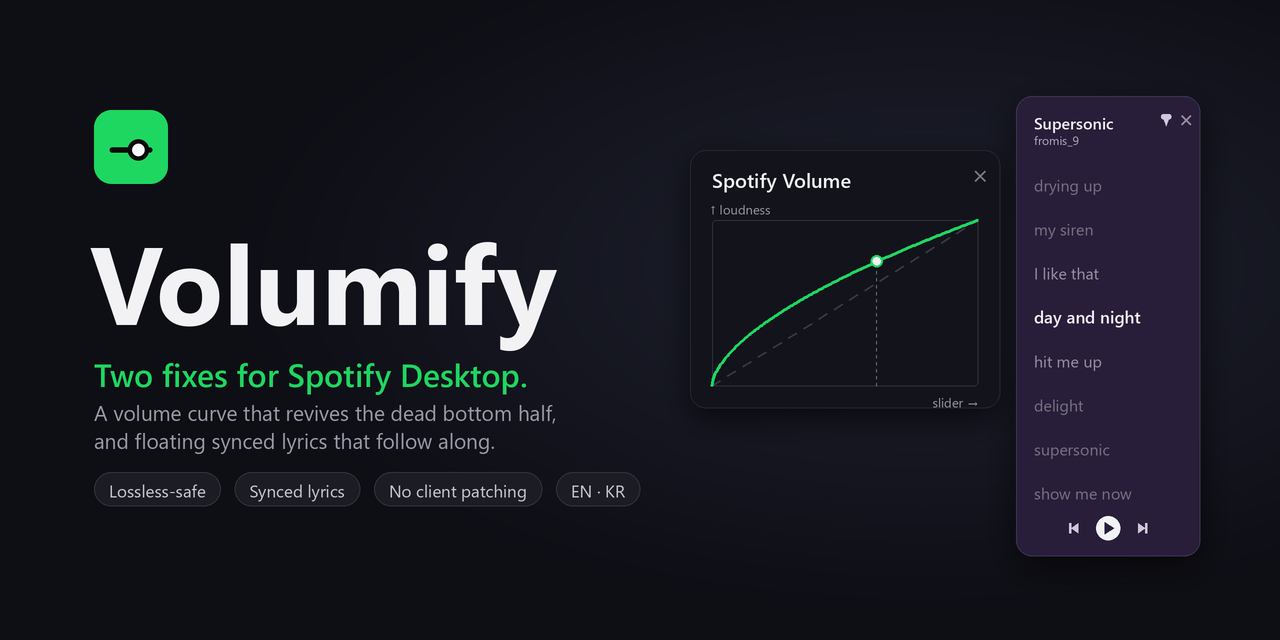
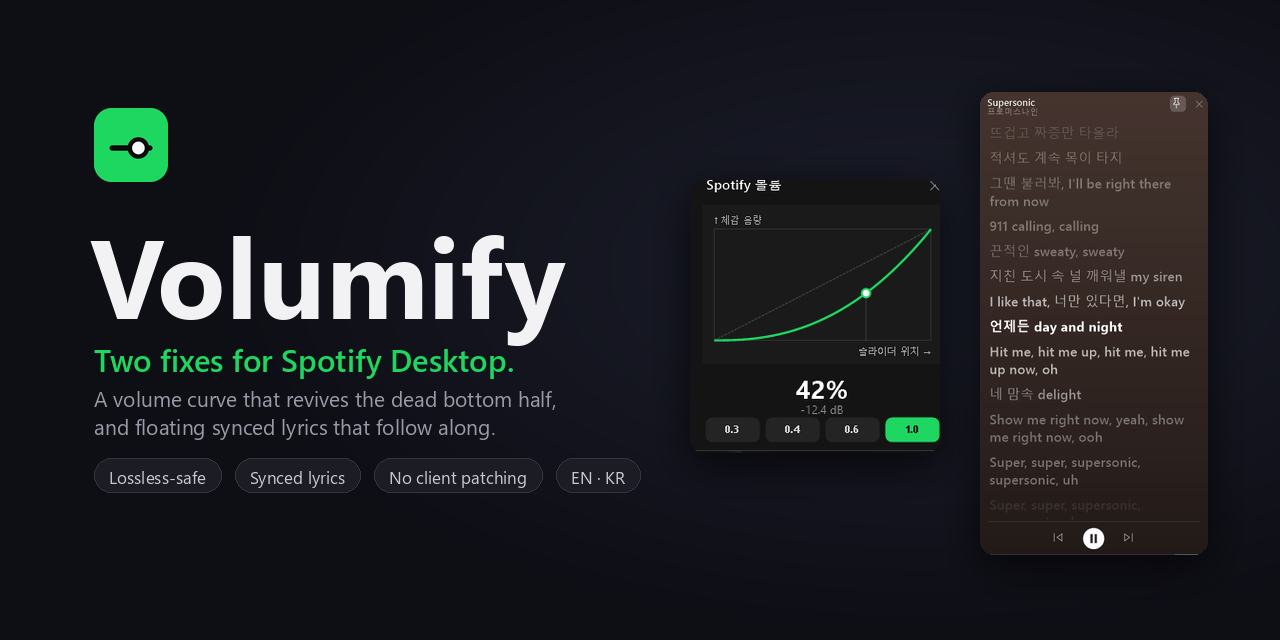
docs: real-screenshot hero + versioned download button
Rebuild the banner by compositing actual app screenshots (the volume panel and
the Supersonic lyrics window, cropped from one capture) with rounded corners and
soft shadows, instead of hand-drawn mockups. Replace the plain download link
with a prominent for-the-badge button that auto-shows the latest release version
(via github/v/release).

diff --git a/assets/thumbnail.py b/assets/thumbnail.py
@@ -1,140 +1,64 @@
-# Regenerates assets/thumbnail.png — the README banner. Two mock cards mirror the app's
-# two pillars: the loudness-curve volume panel, and the floating synced-lyrics window
-# (album-tinted, one line highlighted). Run from the repo root:
+# Regenerates assets/thumbnail.png — the README banner. Composites REAL app screenshots
+# (the volume panel + the floating lyrics window, both cropped from one capture) onto a
+# dark glow background with the headline copy. Run from the repo root:
 #   python3 assets/thumbnail.py   (needs Pillow + numpy + Segoe UI fonts)
+# Rendered at 1x so the screenshots stay crisp (they're already low-res; upscaling blurs).
 import numpy as np
 from PIL import Image, ImageDraw, ImageFont, ImageFilter
 
-S = 2                      # supersample factor
-W, H = 1280 * S, 640 * S
+W, H = 1280, 640
 FZ = "/mnt/c/Windows/Fonts/"
+def font(name, px): return ImageFont.truetype(FZ + name, px)
+f_title = font("segoeuib.ttf", 112)
+f_sub   = font("seguisb.ttf", 31)
+f_desc  = font("segoeui.ttf", 21)
+f_badge = font("segoeui.ttf", 17)
 
-def font(name, px):
-    return ImageFont.truetype(FZ + name, int(px * S))
-
-f_title  = font("segoeuib.ttf", 110)
-f_sub    = font("seguisb.ttf", 32)
-f_desc   = font("segoeui.ttf", 21)
-f_badge  = font("segoeui.ttf", 17)
-f_ptitle = font("seguisb.ttf", 20)
-f_axis   = font("segoeui.ttf", 13)
-f_lyr    = font("segoeui.ttf", 16)
-f_lyra   = font("seguisb.ttf", 17)
-f_lhead  = font("seguisb.ttf", 16)
-f_lsub   = font("segoeui.ttf", 12)
-
-GREEN = (30, 215, 96)
-WHITE = (242, 242, 245)
-SUB   = (154, 154, 168)
-DIM   = (150, 146, 158)
+GREEN = (30, 215, 96); WHITE = (242, 242, 245); SUB = (154, 154, 168)
 
 # ---- background: near-black with a soft glow behind the cards ----
 yy, xx = np.mgrid[0:H, 0:W]
 cx, cy = int(0.72 * W), int(0.42 * H)
-d2 = ((xx - cx) / (0.58 * W)) ** 2 + ((yy - cy) / (0.58 * H)) ** 2
+d2 = ((xx - cx) / (0.60 * W)) ** 2 + ((yy - cy) / (0.62 * H)) ** 2
 glow = np.clip(1 - d2, 0, 1) ** 1.6
-base = np.array([14, 14, 21], dtype=float)
-tint = np.array([26, 28, 40], dtype=float)
-bg = base[None, None, :] + (tint - base)[None, None, :] * glow[:, :, None]
+base = np.array([14, 14, 21.0]); tint = np.array([24, 26, 38.0])
+bg = base + (tint - base) * glow[:, :, None]
 img = Image.fromarray(np.clip(bg, 0, 255).astype("uint8"), "RGB").convert("RGBA")
 
-def shadow_for(box, blur, alpha, dy):
+def card(path, x, y, w, radius=13, blur=20, salpha=165, sdy=12):
+    """Paste a screenshot with rounded corners + a soft drop shadow; return its height."""
+    s = Image.open(path).convert("RGBA")
+    h = round(s.height * w / s.width)
+    s = s.resize((w, h), Image.LANCZOS)
+    m = Image.new("L", (w, h), 0)
+    ImageDraw.Draw(m).rounded_rectangle([0, 0, w - 1, h - 1], radius=radius, fill=255)
+    s.putalpha(m)
     sh = Image.new("RGBA", img.size, (0, 0, 0, 0))
-    ImageDraw.Draw(sh).rounded_rectangle(
-        [box[0], box[1] + dy, box[2], box[3] + dy], radius=18 * S, fill=(0, 0, 0, alpha))
-    return sh.filter(ImageFilter.GaussianBlur(blur * S))
+    ImageDraw.Draw(sh).rounded_rectangle([x, y + sdy, x + w, y + h + sdy], radius=radius, fill=(0, 0, 0, salpha))
+    img.alpha_composite(sh.filter(ImageFilter.GaussianBlur(blur)))
+    img.alpha_composite(s, (x, y))
+    return h
 
-# ---------- right side: two floating cards ----------
-VOL = [690 * S, 150 * S, 1000 * S, 408 * S]   # volume panel (landscape)
-LYR = [1016 * S, 96 * S, 1200 * S, 556 * S]   # lyrics window (portrait)
+# ---- right side: the two real windows, floating ----
+card("assets/vol_panel.png", 690, 180, 250)   # volume panel (real screenshot)
+card("assets/lyrics.png",    980, 92, 228)     # lyrics window (real screenshot)
 
-img = Image.alpha_composite(img, shadow_for(LYR, 16, 150, 12 * S))
-img = Image.alpha_composite(img, shadow_for(VOL, 14, 150, 10 * S))
+# ---- left content ----
 d = ImageDraw.Draw(img)
-def rr(box, r, **kw): d.rounded_rectangle(box, radius=int(r * S), **kw)
+icon = Image.open("assets/icon.png").convert("RGBA").resize((74, 74), Image.LANCZOS)
+img.alpha_composite(icon, (94, 108))
+d.text((90, 198), "Volumify", font=f_title, fill=WHITE)
+d.text((94, 338), "Two fixes for Spotify Desktop.", font=f_sub, fill=GREEN)
+d.text((94, 384), "A volume curve that revives the dead bottom half,", font=f_desc, fill=SUB)
+d.text((94, 412), "and floating synced lyrics that follow along.", font=f_desc, fill=SUB)
 
-# ===== volume card =====
-rr(VOL, 16, fill=(19, 19, 28, 255), outline=(38, 38, 48, 255), width=int(1.4 * S))
-d.text((712 * S, 166 * S), "Spotify Volume", font=f_ptitle, fill=WHITE)
-ccx, ccy, ca = 980 * S, 176 * S, 5 * S
-d.line([(ccx - ca, ccy - ca), (ccx + ca, ccy + ca)], fill=(120, 120, 130), width=int(1.8 * S))
-d.line([(ccx - ca, ccy + ca), (ccx + ca, ccy - ca)], fill=(120, 120, 130), width=int(1.8 * S))
-
-GX0, GY0, GX1, GY1 = 712 * S, 220 * S, 978 * S, 386 * S
-gw, gh = GX1 - GX0, GY1 - GY0
-rr([GX0, GY0, GX1, GY1], 4, outline=(48, 48, 58, 255), width=int(1.2 * S))
-def gx(t): return GX0 + t * gw
-def gy(v): return GY1 - v * gh
-def dashed(p0, p1, color, width, dash=10, gap=8):
-    p0, p1 = np.array(p0, float), np.array(p1, float)
-    L = np.hypot(*(p1 - p0)); u = (p1 - p0) / L; t = 0
-    while t < L:
-        a = p0 + u * t; b = p0 + u * min(t + dash * S, L)
-        d.line([tuple(a), tuple(b)], fill=color, width=int(width * S)); t += (dash + gap) * S
-dashed((GX0, GY1), (GX1, GY0), (58, 58, 70, 255), 1.6)
-EXP = 0.6
-pts = [(gx(t), gy(t ** EXP)) for t in np.linspace(0, 1, 240)]
-d.line(pts, fill=GREEN, width=int(3.2 * S), joint="curve")
-mt = 0.62; mx, my = gx(mt), gy(mt ** EXP)
-dashed((mx, GY1), (mx, my), (110, 110, 120, 255), 1.4, dash=3, gap=4)
-rdot = 6 * S
-d.ellipse([mx - rdot, my - rdot, mx + rdot, my + rdot], fill=WHITE)
-d.ellipse([mx - rdot, my - rdot, mx + rdot, my + rdot], outline=GREEN, width=int(2.2 * S))
-d.text((GX0 - 2 * S, GY0 - 20 * S), "↑ loudness", font=f_axis, fill=(150, 150, 162))
-sl = "slider →"; w = d.textlength(sl, font=f_axis)
-d.text((GX1 - w, GY1 + 7 * S), sl, font=f_axis, fill=(150, 150, 162))
-
-# ===== lyrics card (album-tinted) =====
-rr(LYR, 16, fill=(40, 30, 58, 255), outline=(64, 52, 84, 255), width=int(1.4 * S))
-lx = 1034 * S
-d.text((lx, 112 * S), "Supersonic", font=f_lhead, fill=WHITE)
-d.text((lx, 132 * S), "fromis_9", font=f_lsub, fill=(176, 168, 190))
-# pin (tiny pushpin, pointing down) + close, top-right
-pcx, pcy = 1166 * S, 120 * S
-d.rounded_rectangle([pcx - 5 * S, pcy - 6 * S, pcx + 5 * S, pcy - 1 * S], radius=2 * S, fill=(210, 200, 220))
-d.polygon([(pcx - 2.5 * S, pcy - 1 * S), (pcx + 2.5 * S, pcy - 1 * S), (pcx, pcy + 6 * S)], fill=(210, 200, 220))
-xcx, xca = 1186 * S, 4.5 * S
-d.line([(xcx - xca, pcy - xca), (xcx + xca, pcy + xca)], fill=(150, 140, 160), width=int(1.6 * S))
-d.line([(xcx - xca, pcy + xca), (xcx + xca, pcy - xca)], fill=(150, 140, 160), width=int(1.6 * S))
-
-lines = ["drying up", "my siren", "I like that", "day and night",
-         "hit me up", "delight", "supersonic", "show me now"]
-active = 3
-ly = 174 * S
-for i, t in enumerate(lines):
-    if i == active:
-        d.text((lx, ly - 1 * S), t, font=f_lyra, fill=WHITE)
-    else:
-        dist = abs(i - active)
-        c = DIM if dist <= 1 else (118, 114, 126)
-        d.text((lx, ly), t, font=f_lyr, fill=c)
-    ly += 44 * S
-
-# subtle transport row at the bottom of the lyrics card
-ty = 528 * S; tcx = 1108 * S
-d.polygon([(tcx - 30 * S, ty - 5 * S), (tcx - 30 * S, ty + 5 * S), (tcx - 37 * S, ty)], fill=(206, 200, 214))
-d.rectangle([tcx - 39 * S, ty - 5 * S, tcx - 37 * S, ty + 5 * S], fill=(206, 200, 214))
-d.ellipse([tcx - 12 * S, ty - 12 * S, tcx + 12 * S, ty + 12 * S], fill=WHITE)
-d.polygon([(tcx - 3.5 * S, ty - 6 * S), (tcx - 3.5 * S, ty + 6 * S), (tcx + 6 * S, ty)], fill=(40, 30, 58))
-d.polygon([(tcx + 30 * S, ty - 5 * S), (tcx + 30 * S, ty + 5 * S), (tcx + 37 * S, ty)], fill=(206, 200, 214))
-d.rectangle([tcx + 37 * S, ty - 5 * S, tcx + 39 * S, ty + 5 * S], fill=(206, 200, 214))
-
-# ---------- left content ----------
-icon = Image.open("assets/icon.png").convert("RGBA").resize((74 * S, 74 * S), Image.LANCZOS)
-img.alpha_composite(icon, (94 * S, 110 * S))
-d = ImageDraw.Draw(img)
-d.text((90 * S, 206 * S), "Volumify", font=f_title, fill=WHITE)
-d.text((94 * S, 352 * S), "Two fixes for Spotify Desktop.", font=f_sub, fill=GREEN)
-d.text((94 * S, 398 * S), "A volume curve that revives the dead bottom half,", font=f_desc, fill=SUB)
-d.text((94 * S, 426 * S), "and floating synced lyrics that follow along.", font=f_desc, fill=SUB)
-
-bx, by, bh = 94 * S, 472 * S, 34 * S
+bx, by, bh = 94, 458, 34
 for label in ["Lossless-safe", "Synced lyrics", "No client patching", "EN · KR"]:
-    tw = d.textlength(label, font=f_badge); bw = tw + 30 * S
+    tw = d.textlength(label, font=f_badge); bw = tw + 30
     d.rounded_rectangle([bx, by, bx + bw, by + bh], radius=bh / 2,
-                        fill=(28, 28, 36, 255), outline=(52, 52, 64, 255), width=max(1, int(1 * S)))
-    d.text((bx + 15 * S, by + 7 * S), label, font=f_badge, fill=(200, 200, 210))
-    bx += bw + 14 * S
+                        fill=(28, 28, 36, 255), outline=(52, 52, 64, 255), width=1)
+    d.text((bx + 15, by + 7), label, font=f_badge, fill=(200, 200, 210))
+    bx += bw + 14
 
-img.convert("RGB").resize((1280, 640), Image.LANCZOS).save("assets/thumbnail.png")
+img.convert("RGB").save("assets/thumbnail.png")
 print("wrote assets/thumbnail.png")

diff --git a/README.ko.md b/README.ko.md
@@ -8,13 +8,14 @@
 
 <br>
 
-[![최신 릴리스 다운로드](https://img.shields.io/github/v/release/mangomandu/volumify?label=Download%20.exe&logo=github&color=1ed760)](https://github.com/mangomandu/volumify/releases/latest)
 [![Windows 10 | 11](https://img.shields.io/badge/Windows-10%20%7C%2011-0078D6?logo=windows&logoColor=white)](#)
 [![.NET 8](https://img.shields.io/badge/.NET-8.0-512BD4?logo=dotnet&logoColor=white)](#)
 [![무손실 & 업데이트 안전](https://img.shields.io/badge/Spotify-lossless%20%26%20update%20safe-1ed760?logo=spotify&logoColor=white)](#-안전한-설계)
 [![License: MIT](https://img.shields.io/badge/License-MIT-1ed760)](LICENSE)
 
-### [⬇️ 최신 `.exe` 다운로드](https://github.com/mangomandu/volumify/releases/latest) &nbsp;·&nbsp; 설치 없이 바로 실행
+[![최신 Volumify.exe 다운로드](https://img.shields.io/github/v/release/mangomandu/volumify?style=for-the-badge&label=Download%20Volumify&color=1ed760&logo=github&logoColor=white)](https://github.com/mangomandu/volumify/releases/latest)
+
+**⬇️ 설치 없이 — 최신 `.exe` 받아서 바로 실행.**
 
 </div>
 

diff --git a/README.md b/README.md
@@ -8,13 +8,14 @@
 
 <br>
 
-[![Download latest release](https://img.shields.io/github/v/release/mangomandu/volumify?label=Download%20.exe&logo=github&color=1ed760)](https://github.com/mangomandu/volumify/releases/latest)
 [![Windows 10 | 11](https://img.shields.io/badge/Windows-10%20%7C%2011-0078D6?logo=windows&logoColor=white)](#)
 [![.NET 8](https://img.shields.io/badge/.NET-8.0-512BD4?logo=dotnet&logoColor=white)](#)
 [![Lossless & auto‑update safe](https://img.shields.io/badge/Spotify-lossless%20%26%20update%20safe-1ed760?logo=spotify&logoColor=white)](#-safe-by-design)
 [![License: MIT](https://img.shields.io/badge/License-MIT-1ed760)](LICENSE)
 
-### [⬇️ Download the latest `.exe`](https://github.com/mangomandu/volumify/releases/latest) &nbsp;·&nbsp; no install, just run
+[![Download the latest Volumify.exe](https://img.shields.io/github/v/release/mangomandu/volumify?style=for-the-badge&label=Download%20Volumify&color=1ed760&logo=github&logoColor=white)](https://github.com/mangomandu/volumify/releases/latest)
+
+**⬇️ no install — just grab the latest `.exe` and run.**
 
 </div>
 